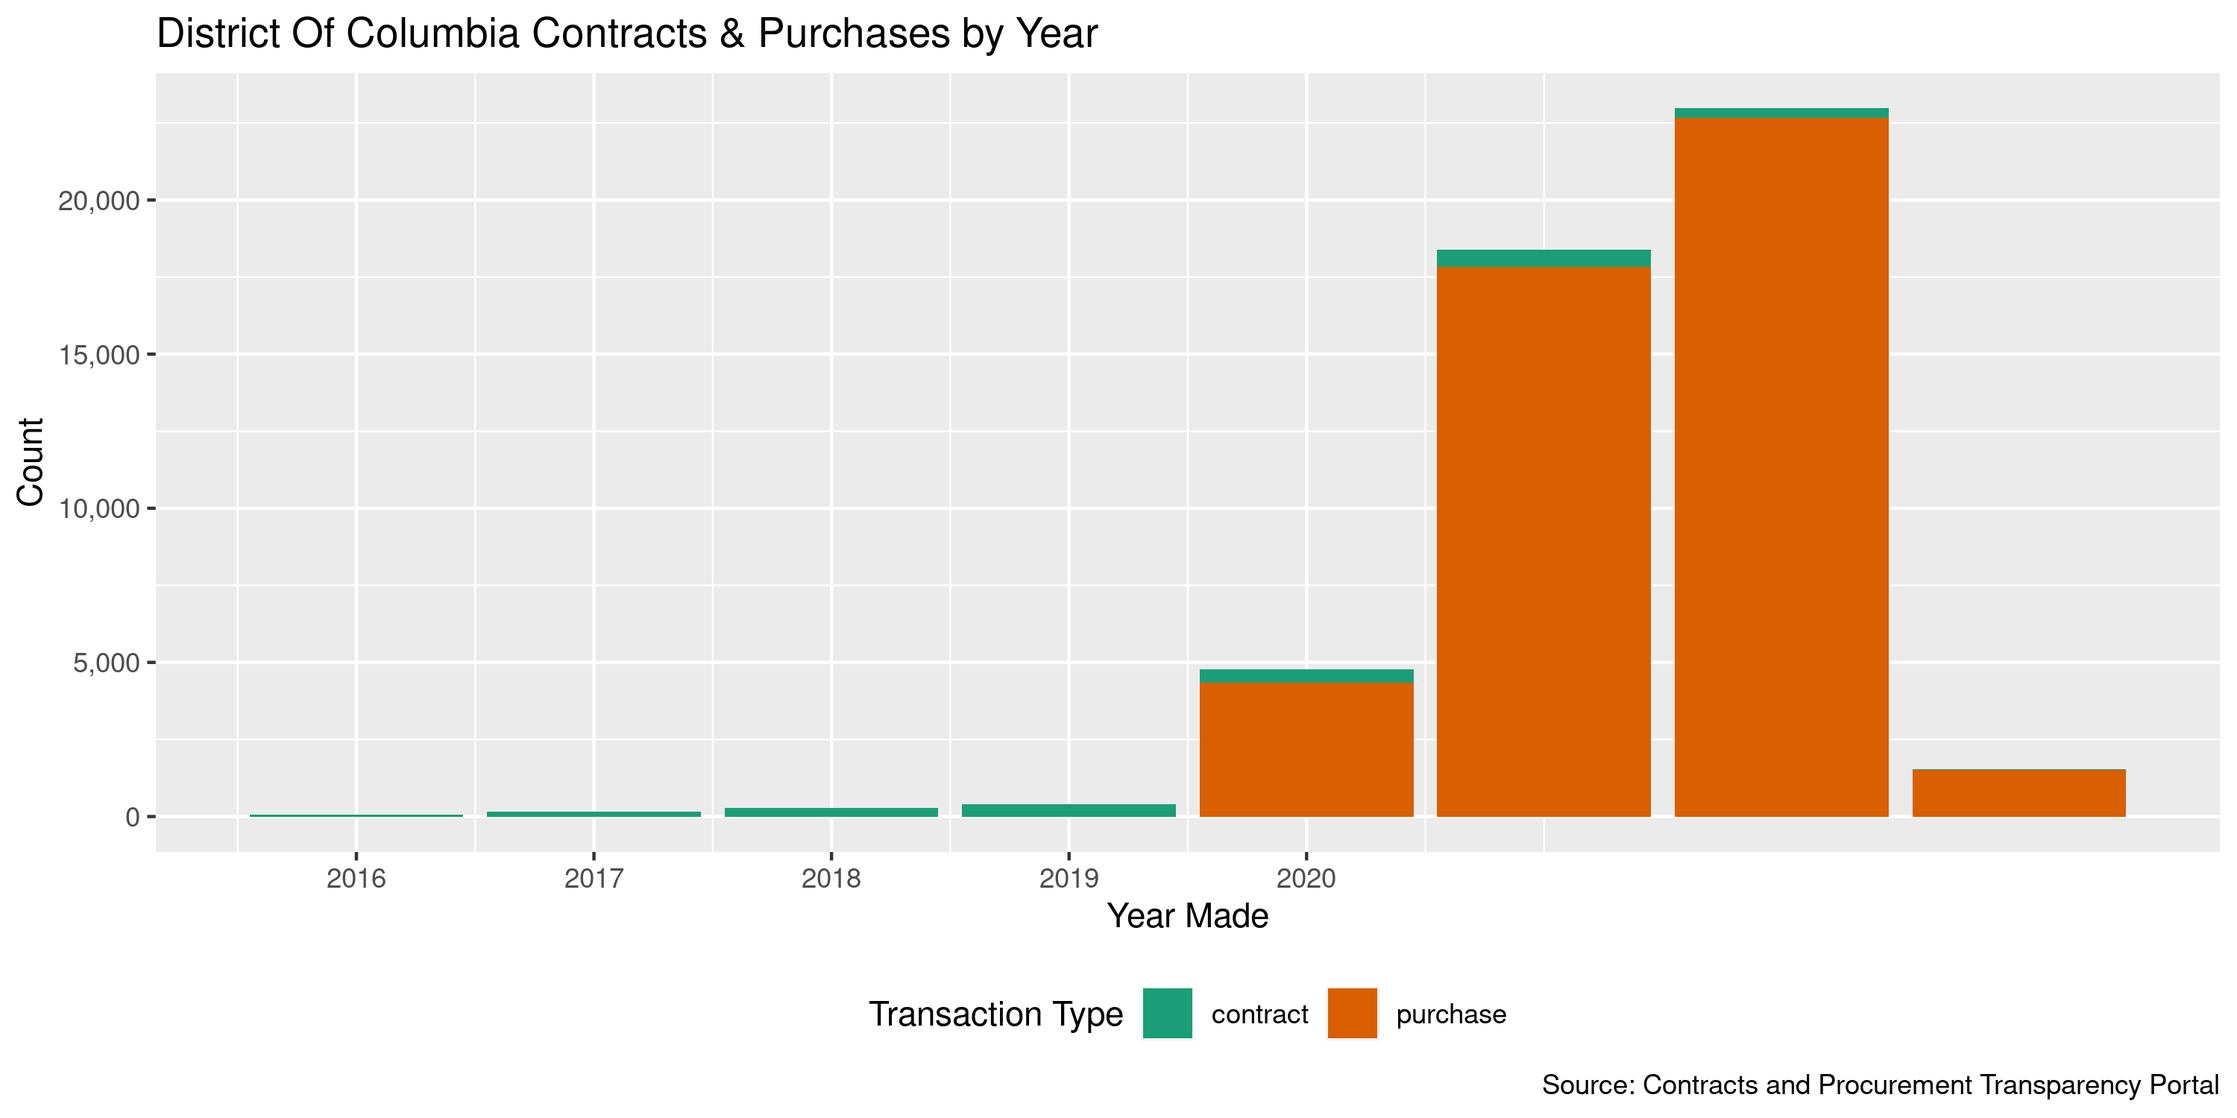
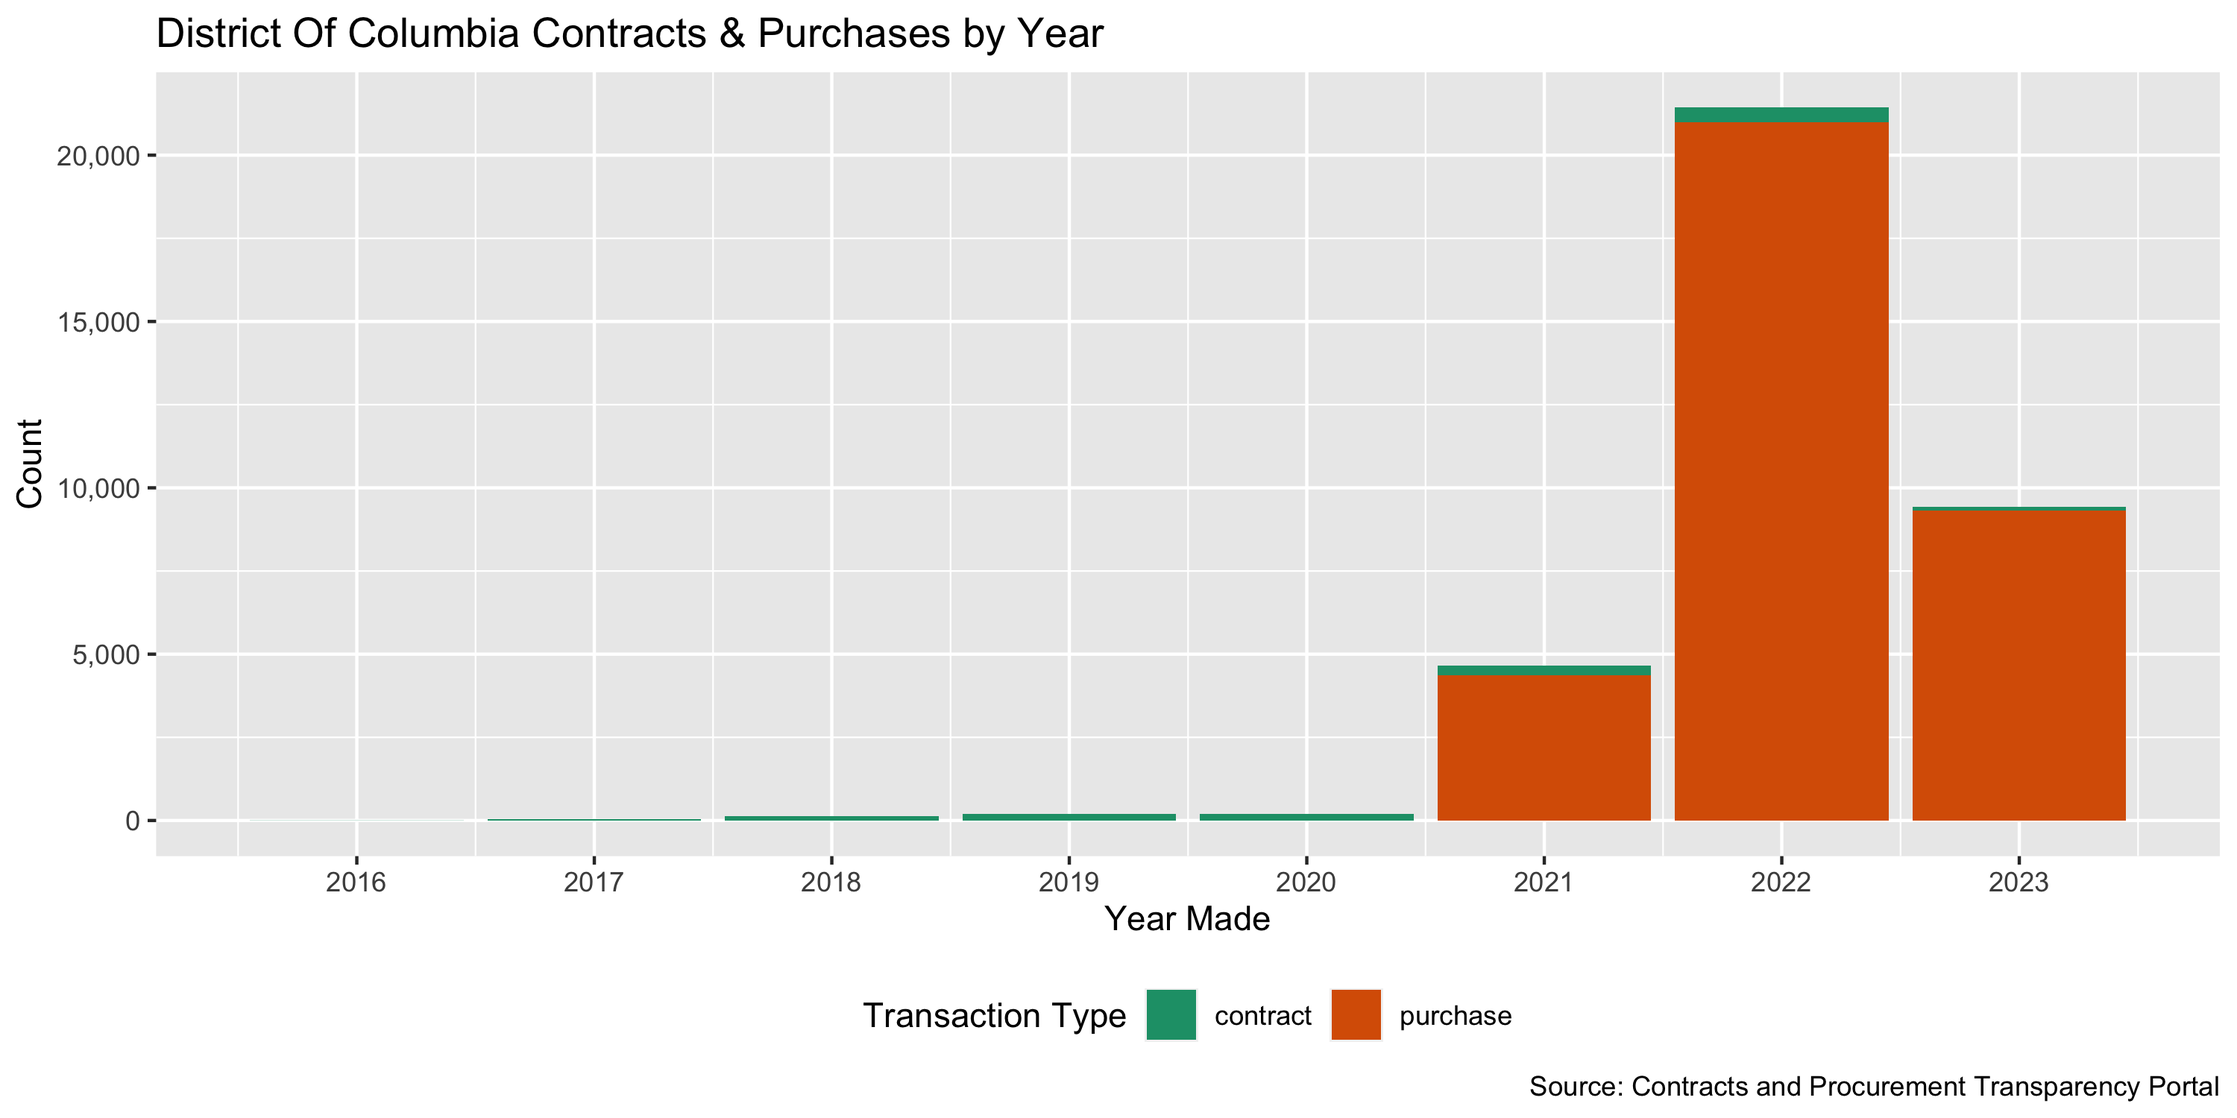
dc contracts update

diff --git a/state/dc/contracts/docs/dc_contracts_diary.md b/state/dc/contracts/docs/dc_contracts_diary.md
@@ -1,19 +1,19 @@
 District Of Columbia Contracts
 ================
-Kiernan Nicholls
-2023-01-19 13:45:27
+Kiernan Nicholls & Aarushi Sahejpal
+2023-06-19 11:43:14.407137
 
-- <a href="#project" id="toc-project">Project</a>
-- <a href="#objectives" id="toc-objectives">Objectives</a>
-- <a href="#packages" id="toc-packages">Packages</a>
-- <a href="#data" id="toc-data">Data</a>
-- <a href="#read" id="toc-read">Read</a>
-- <a href="#explore" id="toc-explore">Explore</a>
-- <a href="#wrangle" id="toc-wrangle">Wrangle</a>
-- <a href="#conclude" id="toc-conclude">Conclude</a>
-- <a href="#export" id="toc-export">Export</a>
-- <a href="#upload" id="toc-upload">Upload</a>
-- <a href="#dictionary" id="toc-dictionary">Dictionary</a>
+- [Project](#project)
+- [Objectives](#objectives)
+- [Packages](#packages)
+- [Data](#data)
+- [Read](#read)
+- [Explore](#explore)
+- [Wrangle](#wrangle)
+- [Conclude](#conclude)
+- [Export](#export)
+- [Upload](#upload)
+- [Dictionary](#dictionary)
 
 <!-- Place comments regarding knitting here -->
 
@@ -75,6 +75,7 @@ pacman::p_load(
   httr, # http requests
   fs # local storage 
 )
+library(dplyr)
 ```
 
 This document should be run as part of the `R_campfin` project, which
@@ -90,7 +91,7 @@ feature and should be run as such. The project also uses the dynamic
 ``` r
 # where does this document knit?
 here::here()
-#> [1] "/home/kiernan/Documents/accountability_datacleaning"
+#> [1] "/Volumes/TAP/accountability_datacleaning"
 ```
 
 ## Data
@@ -183,31 +184,31 @@ dcc <- bind_rows(contract = dcc, purchase = dcp, .id = "type")
 
 ``` r
 glimpse(dcc)
-#> Rows: 48,570
+#> Rows: 36,090
 #> Columns: 12
 #> $ type          <chr> "contract", "contract", "contract", "contract", "contract", "contract", "co…
-#> $ id            <chr> "CW101973", "CW88650", "CW103406", "CW103544", "CW88310", "CW103686", "CW64…
-#> $ title         <chr> "Residential Expenses - Wholistic Home & Community Based Services, Inc.", "…
-#> $ agency        <chr> "Department on Disability Services (DDS)", "Employment Services (DOES)", NA…
-#> $ option_period <chr> "Base Period", "Option 2", "Base Period", "Base Period", "Option 2", "Base …
-#> $ start_date    <date> 2023-03-01, 2023-01-13, 2023-01-11, 2023-01-10, 2023-01-08, 2023-01-04, 20…
-#> $ end_date      <date> 2024-02-29, 2024-01-12, 2024-01-10, 2024-01-09, 2024-01-07, 2024-01-03, 20…
-#> $ date          <date> 2022-08-30, 2021-01-13, 2022-10-25, 2023-01-10, 2021-01-08, 2023-01-04, 20…
-#> $ nigp_code     <chr> "9529265", "9247835", "4750540", "9585040", "7159020", "9626941", "9241900"…
-#> $ vendor        <chr> "WHOLISTIC HOME AND COMMUNITY", "Constituent Services Worldwide Public Bene…
-#> $ amount        <dbl> 1294653.8, 250000.0, 500000.0, 428800.1, 20500.0, 950000.0, 500000.0, 85000…
+#> $ id            <chr> "DCRL-2022-C-0066", "CW99879", "CW105702", "CW108416", "CW99963", "CW99961"…
+#> $ title         <chr> "Unaccompanied Refugee Minor Program", "FY22 PROFESSIONAL DEVELOPMENT-BOOT …
+#> $ agency        <chr> "Child and Family Services Agency (CFSA)", "Employment Services (DOES)", NA…
+#> $ option_period <chr> "Option Year 1", "Option 1", "Base Period", "Base Period", "Option 1", "Opt…
+#> $ start_date    <date> 2023-06-19, 2023-06-08, 2023-06-07, 2023-06-05, 2023-06-03, 2023-06-03, 20…
+#> $ end_date      <date> 2024-06-18, 2024-06-07, 2024-06-06, 2023-09-30, 2024-06-02, 2024-06-02, 20…
+#> $ date          <date> 2023-03-13, 2022-05-26, 2023-06-07, 2023-06-05, 2022-05-26, 2022-05-26, 20…
+#> $ nigp_code     <chr> "952-92-00", "9183822", "9929000", "9615342", "9183822", "9183822", "070488…
+#> $ vendor        <chr> "Lutheran Social Services of the National Capital Area", "TECKNOMIC LLC", "…
+#> $ amount        <dbl> 1927924.0, 100000.0, 950000.0, 28875.0, 100000.0, 100000.0, 782500.0, 12354…
 #> $ fiscal_year   <chr> NA, NA, NA, NA, NA, NA, NA, NA, NA, NA, NA, NA, NA, NA, NA, NA, NA, NA, NA,…
 tail(dcc)
 #> # A tibble: 6 × 12
-#>   type    id    title agency optio…¹ start_date end_date date       nigp_code vendor amount fisca…²
-#>   <chr>   <chr> <chr> <chr>  <chr>   <date>     <date>   <date>     <chr>     <chr>   <dbl> <chr>  
-#> 1 purcha… PO63… <NA>  Small… <NA>    NA         NA       2020-10-01 9614400   H STR… 1.50e5 FY2021 
-#> 2 purcha… PO63… <NA>  Small… <NA>    NA         NA       2020-10-01 9614400   NORTH… 1.24e5 FY2021 
-#> 3 purcha… PO63… <NA>  Small… <NA>    NA         NA       2020-10-01 9614400   CAREE… 1.08e5 FY2021 
-#> 4 purcha… PO63… <NA>  Child… <NA>    NA         NA       2020-10-01 9621600   RHG G… 5.76e4 FY2021 
-#> 5 purcha… PO63… <NA>  Attor… <NA>    NA         NA       2020-10-01 6008056   PITNE… 1.05e5 FY2021 
-#> 6 purcha… PO63… <NA>  Metro… <NA>    NA         NA       2020-10-01 9204531   FILEO… 5.60e4 FY2021 
-#> # … with abbreviated variable names ¹option_period, ²fiscal_year
+#>   type    id    title agency option_period start_date end_date date       nigp_code vendor   amount
+#>   <chr>   <chr> <chr> <chr>  <chr>         <date>     <date>   <date>     <chr>     <chr>     <dbl>
+#> 1 purcha… PO65… <NA>  Chief… <NA>          NA         NA       2021-10-01 9485550   CVPATH … 2.5 e4
+#> 2 purcha… PO65… <NA>  Chief… <NA>          NA         NA       2021-10-01 9487452   MEDSTAR… 6   e3
+#> 3 purcha… PO65… <NA>  Foren… <NA>          NA         NA       2021-10-01 9614950   WEST PU… 9.68e3
+#> 4 purcha… PO65… <NA>  Chief… <NA>          NA         NA       2021-10-01 9586300   THE COL… 7.26e4
+#> 5 purcha… PO65… <NA>  Chief… <NA>          NA         NA       2021-10-01 9381800   EMERGEN… 8.32e3
+#> 6 purcha… PO64… <NA>  Depar… <NA>          NA         NA       2021-10-01 9529265   NATIONA… 4.79e5
+#> # ℹ 1 more variable: fiscal_year <chr>
 ```
 
 ### Missing
@@ -222,16 +223,16 @@ col_stats(dcc, count_na)
 #>    <chr>         <chr>  <int>    <dbl>
 #>  1 type          <chr>      0 0       
 #>  2 id            <chr>      0 0       
-#>  3 title         <chr>  46360 0.954   
-#>  4 agency        <chr>    222 0.00457 
-#>  5 option_period <chr>  46360 0.954   
-#>  6 start_date    <date> 46360 0.954   
-#>  7 end_date      <date> 46360 0.954   
+#>  3 title         <chr>  34673 0.961   
+#>  4 agency        <chr>    142 0.00393 
+#>  5 option_period <chr>  34673 0.961   
+#>  6 start_date    <date> 34673 0.961   
+#>  7 end_date      <date> 34673 0.961   
 #>  8 date          <date>     0 0       
-#>  9 nigp_code     <chr>     19 0.000391
+#>  9 nigp_code     <chr>     12 0.000333
 #> 10 vendor        <chr>      0 0       
 #> 11 amount        <dbl>      0 0       
-#> 12 fiscal_year   <chr>   2210 0.0455
+#> 12 fiscal_year   <chr>   1417 0.0393
 ```
 
 These records can be flagged with `campfin::flag_na()`.
@@ -239,27 +240,7 @@ These records can be flagged with `campfin::flag_na()`.
 ``` r
 dcc <- dcc %>% flag_na(date, vendor, amount, agency)
 percent(mean(dcc$na_flag), 0.01)
-#> [1] "0.46%"
-```
-
-``` r
-dcc %>% 
-  filter(na_flag) %>% 
-  select(date, vendor, amount, agency, type)
-#> # A tibble: 222 × 5
-#>    date       vendor                                                            amount agency type 
-#>    <date>     <chr>                                                              <dbl> <chr>  <chr>
-#>  1 2022-10-25 BOCALJE SERVICES, INC.                                             5  e5 <NA>   cont…
-#>  2 2023-01-04 A Digital Solutions Inc.                                           9.5e5 <NA>   cont…
-#>  3 2019-01-03 Center for Innovation, Research, and Transformation in Education   5  e5 <NA>   cont…
-#>  4 2022-12-19 Calvin Price Group                                                 9  e5 <NA>   cont…
-#>  5 2022-12-15 Lincoln Square Group                                               9.5e5 <NA>   cont…
-#>  6 2022-12-09 Deon Samad LLC                                                     9.5e5 <NA>   cont…
-#>  7 2021-12-01 Chaise Management Group, LLC                                       9.5e5 <NA>   cont…
-#>  8 2019-11-28 V TECH SOLUTIONS INC                                               1  e7 <NA>   cont…
-#>  9 2017-11-16 The Robert Bobb Group LLC                                          7.5e5 <NA>   cont…
-#> 10 2022-07-15 Engineering Project Management Construction Management Consultin…  9  e5 <NA>   cont…
-#> # … with 212 more rows
+#> [1] "0.39%"
 ```
 
 ### Duplicates
@@ -270,28 +251,7 @@ records. These can be flagged with `campfin::flag_dupes()`.
 ``` r
 dcc <- flag_dupes(dcc, -id)
 percent(mean(dcc$dupe_flag), 0.01)
-#> [1] "2.81%"
-```
-
-``` r
-dcc %>% 
-  filter(dupe_flag) %>% 
-  select(date, vendor, amount, agency, type) %>% 
-  arrange(date)
-#> # A tibble: 1,366 × 5
-#>    date       vendor                        amount agency                                     type 
-#>    <date>     <chr>                          <dbl> <chr>                                      <chr>
-#>  1 2020-10-01 BRAILSFORD & DUNLAVEY, INC.    34000 General Services (DGS)                     purc…
-#>  2 2020-10-01 BRAILSFORD & DUNLAVEY, INC.    34000 General Services (DGS)                     purc…
-#>  3 2020-10-01 KBEC GROUP  INC.                   0 Department on Disability Services (DDS)    purc…
-#>  4 2020-10-01 KBEC GROUP  INC.                   0 Department on Disability Services (DDS)    purc…
-#>  5 2020-10-01 EDUCATIONAL NETWORKS  INC       3060 District of Columbia Public Schools (DCPS) purc…
-#>  6 2020-10-01 SAVING OUR NEXT GENERATION    100000 Small and Local Business Development (DSL… purc…
-#>  7 2020-10-01 SAVING OUR NEXT GENERATION    100000 Small and Local Business Development (DSL… purc…
-#>  8 2020-10-01 SAVING OUR NEXT GENERATION    100000 Small and Local Business Development (DSL… purc…
-#>  9 2020-10-01 EAST RIVER FAMILY STRENGTHENG 325000 Child and Family Services Agency (CFSA)    purc…
-#> 10 2020-10-01 EAST RIVER FAMILY STRENGTHENG 325000 Child and Family Services Agency (CFSA)    purc…
-#> # … with 1,356 more rows
+#> [1] "2.52%"
 ```
 
 ### Categorical
@@ -301,61 +261,59 @@ col_stats(dcc, n_distinct)
 #> # A tibble: 14 × 4
 #>    col           class      n         p
 #>    <chr>         <chr>  <int>     <dbl>
-#>  1 type          <chr>      2 0.0000412
-#>  2 id            <chr>  48024 0.989    
-#>  3 title         <chr>   1675 0.0345   
-#>  4 agency        <chr>    114 0.00235  
-#>  5 option_period <chr>     19 0.000391 
-#>  6 start_date    <date>   663 0.0137   
-#>  7 end_date      <date>   670 0.0138   
-#>  8 date          <date>  1211 0.0249   
-#>  9 nigp_code     <chr>   3628 0.0747   
-#> 10 vendor        <chr>   7275 0.150    
-#> 11 amount        <dbl>  27864 0.574    
-#> 12 fiscal_year   <chr>      4 0.0000824
-#> 13 na_flag       <lgl>      2 0.0000412
-#> 14 dupe_flag     <lgl>      2 0.0000412
+#>  1 type          <chr>      2 0.0000554
+#>  2 id            <chr>  35846 0.993    
+#>  3 title         <chr>   1170 0.0324   
+#>  4 agency        <chr>    106 0.00294  
+#>  5 option_period <chr>     17 0.000471 
+#>  6 start_date    <date>   470 0.0130   
+#>  7 end_date      <date>   484 0.0134   
+#>  8 date          <date>   946 0.0262   
+#>  9 nigp_code     <chr>   3083 0.0854   
+#> 10 vendor        <chr>   6431 0.178    
+#> 11 amount        <dbl>  21596 0.598    
+#> 12 fiscal_year   <chr>      3 0.0000831
+#> 13 na_flag       <lgl>      2 0.0000554
+#> 14 dupe_flag     <lgl>      2 0.0000554
 ```
 
 ``` r
 add_prop(count(dcc, agency, sort = TRUE))
-#> # A tibble: 114 × 3
+#> # A tibble: 106 × 3
 #>    agency                                         n      p
 #>    <chr>                                      <int>  <dbl>
-#>  1 District of Columbia Public Schools (DCPS)  6849 0.141 
-#>  2 General Services (DGS)                      3870 0.0797
-#>  3 Commission on Arts and Humanities (CAH)     2992 0.0616
-#>  4 Chief Technology Officer (OCTO)             2471 0.0509
-#>  5 Behavioral Health (DBH)                     2236 0.0460
-#>  6 Health (DOH)                                2184 0.0450
-#>  7 Health Care Finance (DHCF)                  1606 0.0331
-#>  8 Attorney General (OAG)                      1601 0.0330
-#>  9 Department on Disability Services (DDS)     1525 0.0314
-#> 10 Employment Services (DOES)                  1389 0.0286
-#> # … with 104 more rows
+#>  1 District of Columbia Public Schools (DCPS)  4941 0.137 
+#>  2 General Services (DGS)                      2907 0.0805
+#>  3 Commission on Arts and Humanities (CAH)     2479 0.0687
+#>  4 Chief Technology Officer (OCTO)             1740 0.0482
+#>  5 Behavioral Health (DBH)                     1625 0.0450
+#>  6 Health (DOH)                                1425 0.0395
+#>  7 Attorney General (OAG)                      1380 0.0382
+#>  8 Employment Services (DOES)                  1107 0.0307
+#>  9 Health Care Finance (DHCF)                  1093 0.0303
+#> 10 Transportation (DDOT)                       1079 0.0299
+#> # ℹ 96 more rows
 add_prop(count(dcc, option_period, sort = TRUE))
-#> # A tibble: 19 × 3
+#> # A tibble: 17 × 3
 #>    option_period                          n         p
 #>    <chr>                              <int>     <dbl>
-#>  1 <NA>                               46360 0.954    
-#>  2 Base Period                          870 0.0179   
-#>  3 Option 1                             405 0.00834  
-#>  4 Option 2                             374 0.00770  
-#>  5 Option 3                             286 0.00589  
-#>  6 Option 4                             223 0.00459  
-#>  7 Base Year                             14 0.000288 
-#>  8 Option Year 1                          6 0.000124 
-#>  9 Option Year 2                          6 0.000124 
-#> 10 Option Year 3                          5 0.000103 
-#> 11 Option Year 4                          5 0.000103 
-#> 12 Option 5                               4 0.0000824
-#> 13 Base                                   3 0.0000618
-#> 14 Base year + Option Year 4              2 0.0000412
-#> 15 Option Year                            2 0.0000412
-#> 16 Option Year Two                        2 0.0000412
-#> 17 Base Year 1                            1 0.0000206
-#> 18 Partial Exercise of  Option Year 4     1 0.0000206
-#> 19 Partial Exercise of Option Year 2      1 0.0000206
+#>  1 <NA>                               34673 0.961    
+#>  2 Base Period                          611 0.0169   
+#>  3 Option 1                             225 0.00623  
+#>  4 Option 2                             199 0.00551  
+#>  5 Option 3                             189 0.00524  
+#>  6 Option 4                             159 0.00441  
+#>  7 Base Year                              6 0.000166 
+#>  8 Option Year 2                          6 0.000166 
+#>  9 Base                                   5 0.000139 
+#> 10 Option Year 1                          4 0.000111 
+#> 11 Option 5                               3 0.0000831
+#> 12 Option Year 3                          3 0.0000831
+#> 13 Option Year 4                          2 0.0000554
+#> 14 Option Year Two                        2 0.0000554
+#> 15 Partial Exercise of  Option Year 4     1 0.0000277
+#> 16 Partial Exercise of Option Year 2      1 0.0000277
+#> 17 Partial Option Year 1                  1 0.0000277
 ```
 
 ### Continuous
@@ -365,9 +323,9 @@ add_prop(count(dcc, option_period, sort = TRUE))
 ``` r
 noquote(map_chr(summary(dcc$amount), dollar))
 #>           Min.        1st Qu.         Median           Mean        3rd Qu.           Max. 
-#>             $0      $7,434.05     $30,390.04       $510,298       $125,000 $1,010,514,069
+#>             $0      $7,851.75     $32,825.00     $1,257,138       $130,000 $8,830,418,153
 sum(dcc$amount <= 0)
-#> [1] 967
+#> [1] 708
 ```
 
 ``` r
@@ -375,22 +333,20 @@ glimpse(dcc[c(which.min(dcc$amount), which.max(dcc$amount)), ])
 #> Rows: 2
 #> Columns: 14
 #> $ type          <chr> "contract", "contract"
-#> $ id            <chr> "CW101352", "CW83146"
-#> $ title         <chr> "OPTION YEAR ONE DC Economic Strategy ? Reimagining Downtown", "Managed Car…
-#> $ agency        <chr> "Deputy Mayor for Planning and Economic Development (DMPED)", "Health Care …
-#> $ option_period <chr> "Option 1", "Option 1"
-#> $ start_date    <date> 2022-10-01, 2021-10-01
-#> $ end_date      <date> 2023-09-30, 2022-09-30
-#> $ date          <date> 2022-08-02, 2020-05-26
-#> $ nigp_code     <chr> "9184914", "9585600"
-#> $ vendor        <chr> "McKinsey & Company, Inc. Washington D.C.", "Trusted Health Plan (District …
-#> $ amount        <dbl> 0, 1010514069
+#> $ id            <chr> "CW103109", "CW99931"
+#> $ title         <chr> "Inmate Phones (DOC)", "Managed Care Organization - MedStar"
+#> $ agency        <chr> "Corrections (DC)", "Health Care Finance (DHCF)"
+#> $ option_period <chr> "Base Period", "Base Period"
+#> $ start_date    <date> 2022-12-14, 2023-02-01
+#> $ end_date      <date> 2023-12-13, 2028-01-31
+#> $ date          <date> 2022-12-14, 2022-10-19
+#> $ nigp_code     <chr> "9072800", "9585600"
+#> $ vendor        <chr> "Global Tel*Link", "MedStar Family Choice"
+#> $ amount        <dbl> 0, 8830418153
 #> $ fiscal_year   <chr> NA, NA
 #> $ na_flag       <lgl> FALSE, FALSE
 #> $ dupe_flag     <lgl> FALSE, FALSE
 ```
-
-![](../plots/hist_amount-1.png)<!-- -->
 
 #### Dates
 
@@ -407,11 +363,11 @@ clean.
 count_na(dcc$date)
 #> [1] 0
 min(dcc$date, na.rm = TRUE)
-#> [1] "2016-01-01"
+#> [1] "2016-06-28"
 sum(dcc$year < 2012, na.rm = TRUE)
 #> [1] 0
 max(dcc$date, na.rm = TRUE)
-#> [1] "2023-01-19"
+#> [1] "2023-06-10"
 sum(dcc$date > today(), na.rm = TRUE)
 #> [1] 0
 ```
@@ -429,11 +385,11 @@ dcc <- mutate(dcc, state = "dc", .after = agency)
 
 ## Conclude
 
-1.  There are 48,570 records in the database.
-2.  There are 1,366 duplicate records in the database.
+1.  There are 36,090 records in the database.
+2.  There are 910 duplicate records in the database.
 3.  The range and distribution of `amount` and `award_date` seem
     reasonable.
-4.  There are 222 records missing key variables.
+4.  There are 142 records missing key variables.
 5.  Consistency in geographic data has been improved with
     `campfin::normal_*()`.
 6.  The 4-digit `award_year` variable has been created with
@@ -446,15 +402,15 @@ server.
 
 ``` r
 clean_dir <- dir_create(here("state", "dc", "contracts", "data", "clean"))
-clean_csv <- path(clean_dir, "dc_contracts_20200701-20230119.csv")
+clean_csv <- path(clean_dir, "dc_contracts_20160628-20230610.csv")
 write_csv(dcc, clean_csv, na = "")
 file_size(clean_csv)
-#> 6.18M
+#> 4.58M
 mutate(file_encoding(clean_csv), across(path, path.abbrev))
 #> # A tibble: 1 × 3
 #>   path                                                                                mime  charset
 #>   <fs::path>                                                                          <chr> <chr>  
-#> 1 …lity_datacleaning/state/dc/contracts/data/clean/dc_contracts_20200701-20230119.csv text… us-asc…
+#> 1 …lity_datacleaning/state/dc/contracts/data/clean/dc_contracts_20160628-20230610.csv <NA>  <NA>
 ```
 
 ## Upload
